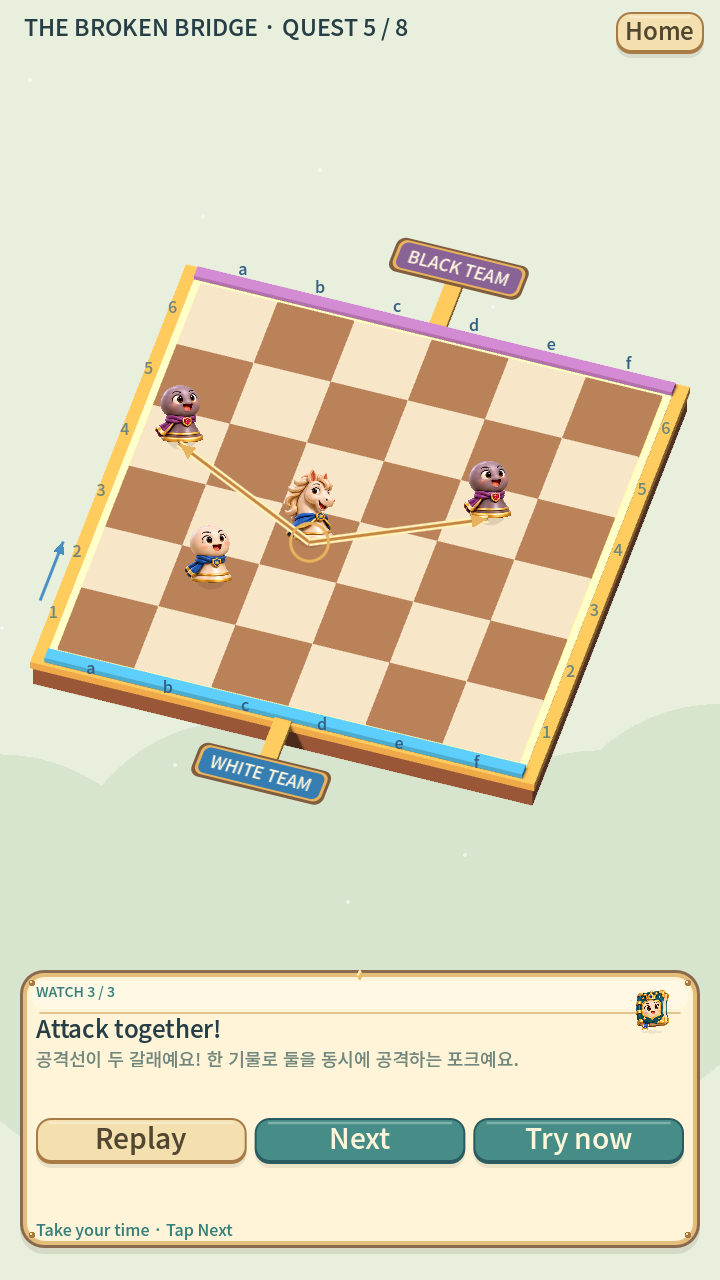
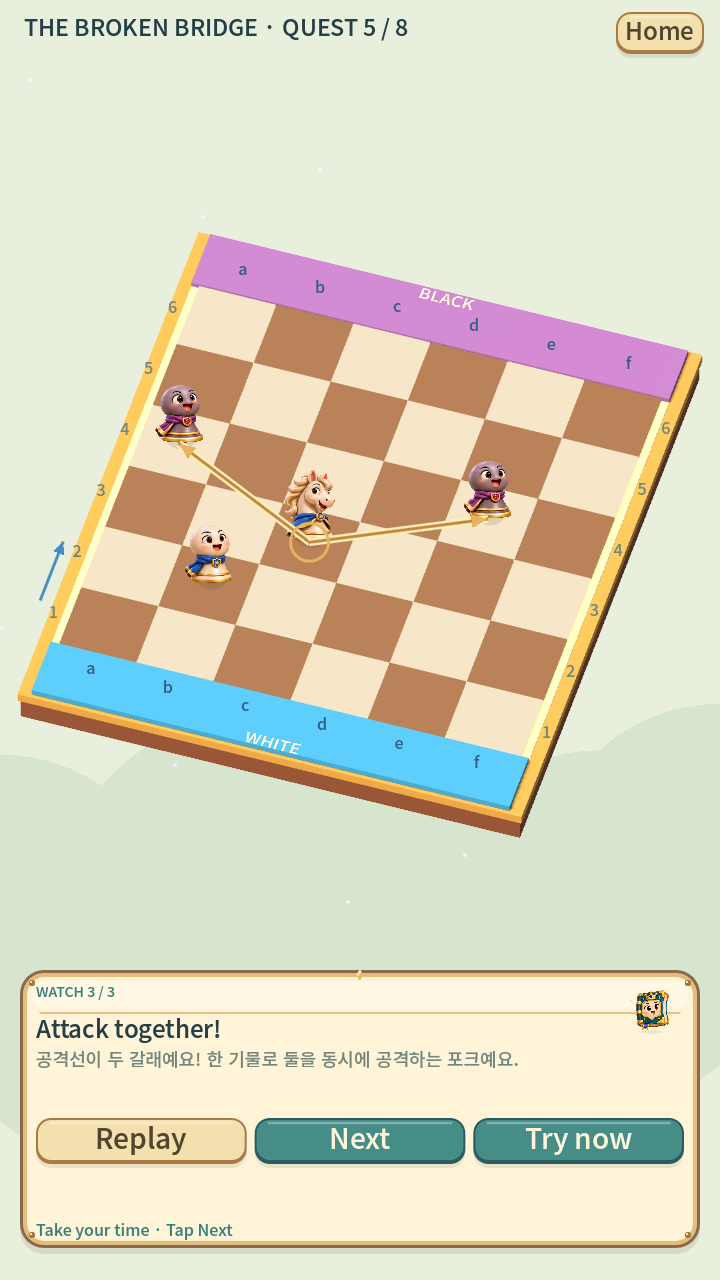
Print team names directly on board rails without signs or mounts

Changed region(s): [[0.0, 0.5, 0.7639, 0.6562], [0.2444, 0.1562, 0.9778, 0.3125], [0.8861, 0.7812, 0.9167, 0.8125]]

diff --git a/tools/build_web.py b/tools/build_web.py
@@ -12,7 +12,7 @@ engine=engine[:engine.rfind('export {')]
 html=(d/'index.html').read_text().replace('"serviceWorker":"index.service.worker.js"','"serviceWorker":""')
 html=html.replace('<head>','<head>\n<script src="chess.js"></script>\n<link rel="apple-touch-icon" href="icon-192.png"><meta name="apple-mobile-web-app-capable" content="yes"><meta name="theme-color" content="#367f7b">')
 html=html.replace('</body>','''<script>if('serviceWorker' in navigator)navigator.serviceWorker.register('./sw.js',{updateViaCache:'none'}).then(r=>r.update());</script>
-<a href="guide.html" style="position:fixed;bottom:5px;right:10px;color:#367f7b;font:12px sans-serif">Gentle lessons · v11.17.10 · Help</a></body>''')
+<a href="guide.html" style="position:fixed;bottom:5px;right:10px;color:#367f7b;font:12px sans-serif">Board lettering · v11.17.11 · Help</a></body>''')
 (d/'index.html').write_text(html)
 manifest={'name':'Chess Quest: The Lost Crown','short_name':'Chess Quest','start_url':'./index.html','scope':'./','id':'./','display':'standalone','orientation':'any','background_color':'#e8efdc','theme_color':'#367f7b','icons':[{'src':f'icon-{s}.png','sizes':f'{s}x{s}','type':'image/png','purpose':'any maskable'} for s in [192,512]]}
 (d/'index.manifest.json').write_text(json.dumps(manifest))

diff --git a/README.md b/README.md
@@ -147,3 +147,7 @@ Settings → progress reset requires explicit confirmation. It clears completion
 Demonstration movement takes about 1.8 seconds (previously 0.87). Each pose is shown for at least 2.8 seconds, then waits for Next; children can inspect attack lines and captures for as long as they need. Next is disabled during the minimum viewing time. Replay and Try now remain available, and cancelled previews cannot advance later.
 
 All modal text is simple English, including story introductions, success, retry, promotion and reset confirmation. Optional Korean explanation remains in the guide. The ending screen is English too. Both team plaques share a centered placement outside opposite board rails and the same projected board-plane basis; the old asymmetric floating badges and front-only shield are removed.
+
+## Printed team names (v11.17.11)
+
+Removed both signs and their mounts. WHITE and BLACK are now depth-tested 3D lettering on the blue and purple board rails, following the board surface. The rails provide space for the lettering outside the coordinates and back-rank characters.
